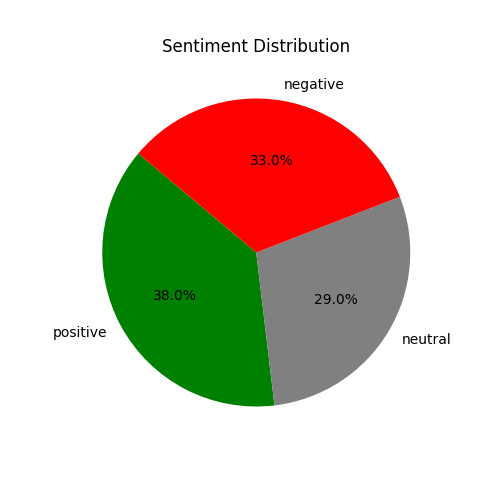
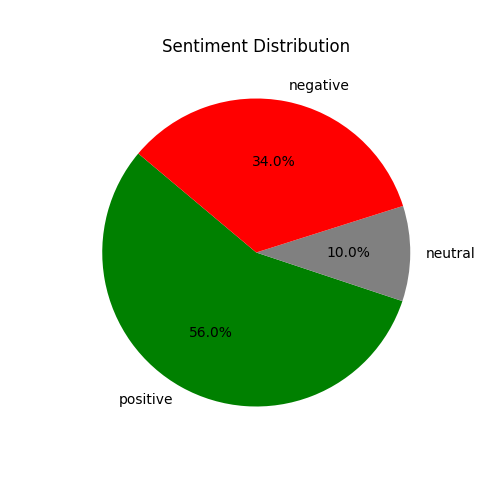
remove video summary feature for now

diff --git a/templates/index.html b/templates/index.html
@@ -50,11 +50,6 @@
               <div class="alert alert-danger">😠 Negative: {{ summary.negative }}</div>
             </div>
           </div>
-        
-        {% if video_summary %}
-          <h4 class="mt-4">📄 Video Summary  (It is still under work so the summary generated maybe incorrect)</h4>
-          <div class="alert alert-info">{{ video_summary }}</div>
-        {% endif %}
 
         <div class="row">
             <div class="col-md-6">

diff --git a/sentiment.py b/sentiment.py
@@ -10,17 +10,17 @@ import re
 import os, requests
 import nltk
 nltk.download('vader_lexicon')
-
-
-def clean_text(text):
-    if not text:
-        return ""
-    text = text.lower()
-    text = re.sub(r"http\S+", "", text)                  # remove URLs
-    text = re.sub(r"<.*?>", "", text)                    # remove HTML tags
-    text = re.sub(r"[^\w\s]", "", text)                  # remove punctuation/symbols
-    text = re.sub(r"\s+", " ", text).strip()             # remove extra spaces
-    return text
+from nltk.sentiment.vader import SentimentIntensityAnalyzer
+from textblob import TextBlob
+# def clean_text(text):
+#     if not text:
+#         return ""
+#     text = text.lower()
+#     text = re.sub(r"http\S+", "", text)                  # remove URLs
+#     text = re.sub(r"<.*?>", "", text)                    # remove HTML tags
+#     text = re.sub(r"[^\w\s]", "", text)                  # remove punctuation/symbols
+#     text = re.sub(r"\s+", " ", text).strip()             # remove extra spaces
+#     return text
 
 
 # def get_transcript(video_id):
@@ -32,6 +32,31 @@ def clean_text(text):
 #         print(f"[Transcript Error] {e}")
 #         return None
 
+def enhanced_clean_text(text):
+    """Enhanced text cleaning for better sentiment analysis"""
+    if not text:
+        return ""
+    
+    # Convert to lowercase
+    text = text.lower()
+    
+    # Handle common abbreviations and slang
+    text = re.sub(r'\bu\b', 'you', text)
+    text = re.sub(r'\bur\b', 'your', text)
+    text = re.sub(r'\bthx\b', 'thanks', text)
+    text = re.sub(r'\bomg\b', 'oh my god', text)
+    text = re.sub(r'\blol\b', 'laugh out loud', text)
+    text = re.sub(r'\bwtf\b', 'what the hell', text)
+    
+    # Handle repeated characters (e.g., "sooooo good" -> "so good")
+    text = re.sub(r'(.)\1{2,}', r'\1\1', text)
+    
+    # Handle negation contractions properly
+    text = re.sub(r"won't", "will not", text)
+    text = re.sub(r"can't", "cannot", text)
+    text = re.sub(r"n't", " not", text)
+    
+    return text
 
 HUGGINGFACE_TOKEN = os.environ.get("HUGGING_FACE_TOKEN")
 API_URL = "https://api-inference.huggingface.co/models/facebook/bart-large-cnn"
@@ -76,7 +101,7 @@ def clean_summary(text):
 def summarize_transcript(text):
     if not text:
         raise ValueError("Transcript is empty or unavailable.")
-    text=clean_text(text)
+    text=enhanced_clean_text(text)
     if not text or len(text.strip()) < 20:
         return "Transcript too short to summarize."
 
@@ -101,21 +126,73 @@ def summarize_transcript(text):
 
 
 
-from nltk.sentiment.vader import SentimentIntensityAnalyzer
-
 sia = SentimentIntensityAnalyzer()
 
-def analyze_sentiment(comments, threshold=0.05):
+# def analyze_sentiment(comments, threshold=0.05):
+#     summary = {'positive': 0, 'neutral': 0, 'negative': 0}
+#     detailed = []
+
+#     for text in comments:
+#         text_clean = clean_text(text)
+#         score = sia.polarity_scores(text_clean)['compound']
+
+#         if score >= threshold:
+#             sentiment = 'positive'
+#         elif score <= -threshold:
+#             sentiment = 'negative'
+#         else:
+#             sentiment = 'neutral'
+
+#         summary[sentiment] += 1
+#         detailed.append({
+#             "text": text,
+#             "sentiment": sentiment,
+#             "confidence": round(abs(score), 3)
+#         })
+
+#     return summary, detailed
+
+def analyze_sentiment_enhanced(comments, threshold=0.05, use_ensemble=True):
+    """
+    Enhanced sentiment analysis with multiple approaches
+    
+    Args:
+        comments: List of text comments
+        threshold: Threshold for neutral classification
+        use_ensemble: Whether to use ensemble of multiple models
+    """
     summary = {'positive': 0, 'neutral': 0, 'negative': 0}
     detailed = []
 
     for text in comments:
-        text_clean = clean_text(text)
-        score = sia.polarity_scores(text_clean)['compound']
-
-        if score >= threshold:
+        if not text or text.strip() == '':
+            continue
+            
+        text_clean = enhanced_clean_text(text)
+        
+        if use_ensemble:
+            # Method 1: VADER
+            vader_score = sia.polarity_scores(text_clean)['compound']
+            
+            # Method 2: TextBlob
+            blob = TextBlob(text_clean)
+            textblob_score = blob.sentiment.polarity
+            
+            # Method 3: Rule-based adjustments
+            adjusted_score = apply_rule_based_adjustments(text_clean, vader_score)
+            
+            # Ensemble: Average the scores with weights
+            final_score = (vader_score * 0.4 + textblob_score * 0.4 + adjusted_score * 0.2)
+            
+        else:
+            # Use only VADER with adjustments
+            final_score = apply_rule_based_adjustments(text_clean, 
+                                                     sia.polarity_scores(text_clean)['compound'])
+        
+        # Classify sentiment
+        if final_score >= threshold:
             sentiment = 'positive'
-        elif score <= -threshold:
+        elif final_score <= -threshold:
             sentiment = 'negative'
         else:
             sentiment = 'neutral'
@@ -124,11 +201,109 @@ def analyze_sentiment(comments, threshold=0.05):
         detailed.append({
             "text": text,
             "sentiment": sentiment,
-            "confidence": round(abs(score), 3)
+            "confidence": round(abs(final_score), 3),
+            "raw_score": round(final_score, 3)
         })
 
     return summary, detailed
 
+def apply_rule_based_adjustments(text, base_score):
+    """Apply rule-based adjustments to improve accuracy"""
+    adjusted_score = base_score
+    
+    # Positive indicators that VADER might miss
+    positive_patterns = [
+        r'\b(love|amazing|awesome|fantastic|excellent|perfect|wonderful|great|good|nice|happy|glad|pleased)\b',
+        r'\b(thank|thanks|appreciate|grateful|blessed)\b',
+        r'\b(recommend|worth|helpful|useful)\b',
+        r'[!]{2,}',  # Multiple exclamation marks often indicate excitement
+        r':\)|:D|:-\)|:-D',  # Emoticons
+    ]
+    
+    # Negative indicators that VADER might miss
+    negative_patterns = [
+        r'\b(hate|awful|terrible|horrible|worst|bad|disappointed|angry|frustrated|annoyed)\b',
+        r'\b(problem|issue|complain|complaint|wrong|error|fail|broken)\b',
+        r':\(|:-\(',  # Sad emoticons
+    ]
+    
+    # Intensifiers
+    if re.search(r'\b(very|really|extremely|absolutely|totally|completely)\b', text):
+        adjusted_score *= 1.2
+    
+    # Check for positive patterns
+    positive_matches = sum(1 for pattern in positive_patterns if re.search(pattern, text))
+    if positive_matches > 0:
+        adjusted_score += 0.1 * positive_matches
+    
+    # Check for negative patterns
+    negative_matches = sum(1 for pattern in negative_patterns if re.search(pattern, text))
+    if negative_matches > 0:
+        adjusted_score -= 0.1 * negative_matches
+    
+    # Handle negation more carefully
+    negation_words = r'\b(not|no|never|neither|nobody|nothing|nowhere|none)\b'
+    if re.search(negation_words, text):
+        # If there's negation, flip the score partially
+        adjusted_score *= -0.5
+    
+    # Ensure score stays within bounds
+    adjusted_score = max(-1.0, min(1.0, adjusted_score))
+    
+    return adjusted_score
+
+def analyze_sentiment_with_context(comments, threshold=0.05, context_weight=0.1):
+    """
+    Analyze sentiment considering surrounding context
+    """
+    summary = {'positive': 0, 'neutral': 0, 'negative': 0}
+    detailed = []
+    
+    for i, text in enumerate(comments):
+        if not text or text.strip() == '':
+            continue
+            
+        text_clean = enhanced_clean_text(text)
+        base_score = sia.polarity_scores(text_clean)['compound']
+        
+        # Consider context from neighboring comments
+        context_score = 0
+        context_count = 0
+        
+        # Look at previous and next comments
+        for j in range(max(0, i-1), min(len(comments), i+2)):
+            if j != i and comments[j] and comments[j].strip():
+                neighbor_clean = enhanced_clean_text(comments[j])
+                neighbor_score = sia.polarity_scores(neighbor_clean)['compound']
+                context_score += neighbor_score
+                context_count += 1
+        
+        if context_count > 0:
+            context_score /= context_count
+            final_score = base_score + (context_score * context_weight)
+        else:
+            final_score = base_score
+        
+        # Apply rule-based adjustments
+        final_score = apply_rule_based_adjustments(text_clean, final_score)
+        
+        # Classify sentiment
+        if final_score >= threshold:
+            sentiment = 'positive'
+        elif final_score <= -threshold:
+            sentiment = 'negative'
+        else:
+            sentiment = 'neutral'
+
+        summary[sentiment] += 1
+        detailed.append({
+            "text": text,
+            "sentiment": sentiment,
+            "confidence": round(abs(final_score), 3),
+            "raw_score": round(final_score, 3)
+        })
+
+    return summary, detailed
 
 
 def plot_sentiment_pie(results):

diff --git a/app.py b/app.py
@@ -1,7 +1,7 @@
 # app.py
 from flask import Flask, render_template, request
 from scraper import scrape_comments
-from sentiment import analyze_sentiment, plot_sentiment_pie, generate_wordcloud, summarize_transcript
+from sentiment import analyze_sentiment_enhanced, plot_sentiment_pie, generate_wordcloud, summarize_transcript
 from selenium_transcript import get_transcript
 
 app = Flask(__name__)
@@ -17,13 +17,13 @@ def analyze():
     video_id, comments, video_title, channel_name = scrape_comments(url, max_comments=100)
     print("<--------------------Scraping completed ------------------->")
     print("<--------------------Analyzing sentiment ------------------->")
-    summary, detailed = analyze_sentiment(comments)
+    summary, detailed = analyze_sentiment_enhanced(comments)
     print("<--------------------Sentiment analysis completed ------------------->")
     plot_sentiment_pie(summary) 
     generate_wordcloud([c['text'] for c in detailed]) 
-    transcript = get_transcript(url, headless=True)
-    video_summary = summarize_transcript(transcript)
-    return render_template('index.html', summary=summary, comments=detailed, video_title=video_title, channel_name=channel_name, chart='sentiment_pie.png', wordcloud='wordcloud.png', video_summary=video_summary)
+    #transcript = get_transcript(url, headless=True)
+    #video_summary = summarize_transcript(transcript)
+    return render_template('index.html', summary=summary, comments=detailed, video_title=video_title, channel_name=channel_name, chart='sentiment_pie.png', wordcloud='wordcloud.png')
 
 if __name__ == '__main__':
     app.run(debug=True)
